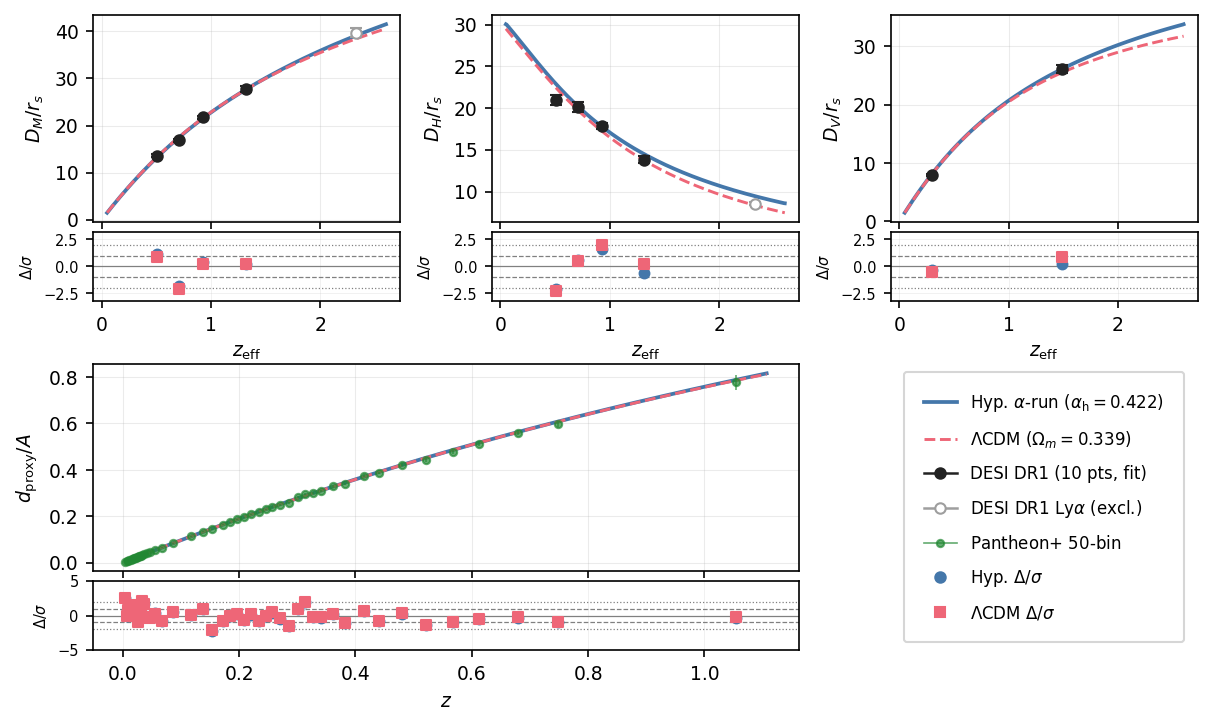
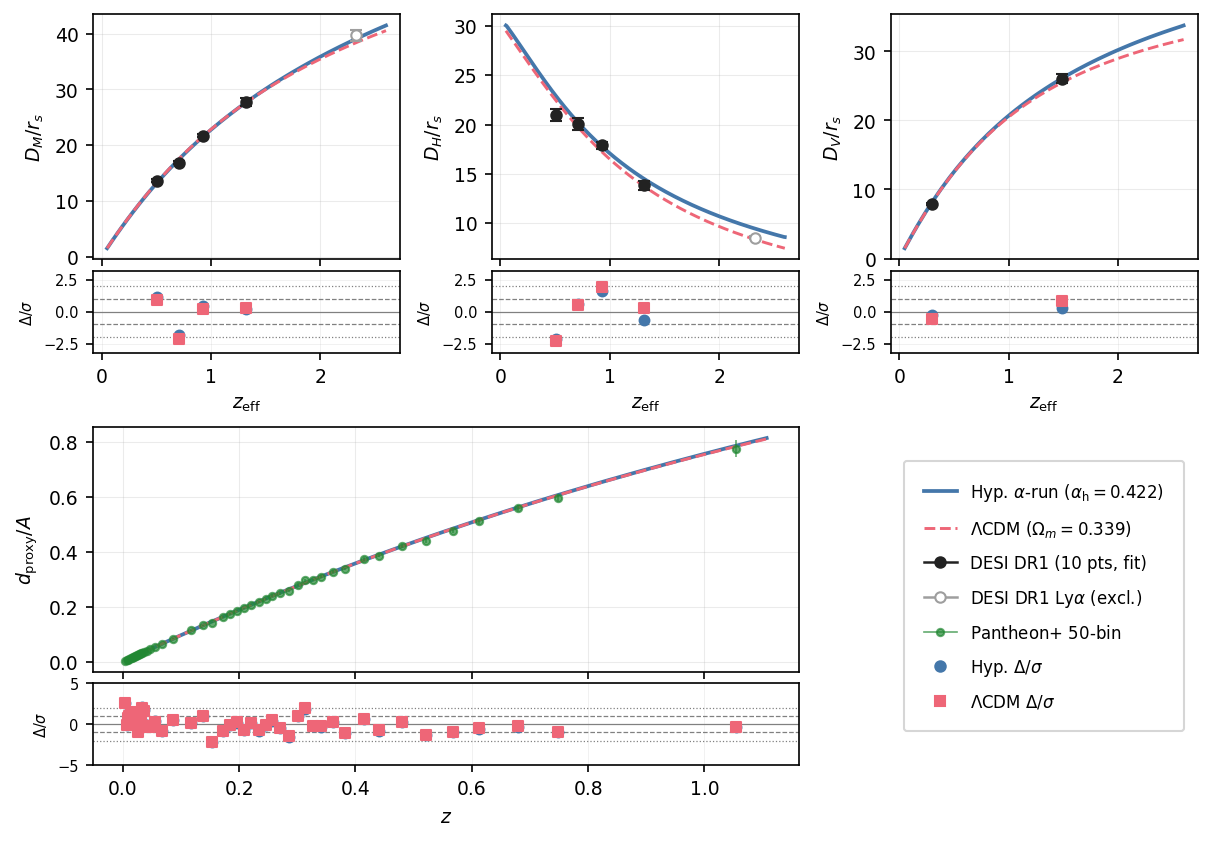
Drop n=1 BBN row (redundant with n=2); Fig 1 height 5.5->6.5
The n=2 row (ah+eta free) subsumes n=1 and is a stricter test:
Y_p=0.153 regardless of eta, ΔAIC=+734 vs ΛCDM.

diff --git a/main.tex b/main.tex
@@ -141,9 +141,8 @@ Statistical analyses keep $\alpha$ as the single geometric parameter. The fit qu
  \cmidrule(lr){2-14}
  & $\Lambda$CDM (ref) & 1 & $\Omega_m=0.339(16)$ & 1.000 & 0.247 & 2.527(30) & 1.79 & 0.79 & --- & 0 & 0 & --- & 0 \\
 \hline
-\multirow{4}{0.65cm}{\centering\rotatebox[origin=c]{90}{\scriptsize BAO+SN+BBN }}
- & \multirow{3}{1.9cm}{Hyp.\ $\alpha$-run} & 1 & $\alpha_{\rm high}=0.4224(11)$ & $1.000(40)$ & $0.153(6)$ & $2.69(6)$ & 1.42 & 0.82 & 383 & $-3.4$ & $+1.5$ & $+766$ & $+762$ \\
- & & 2 & $\alpha_{\rm high}=0.4224(11)$, $\eta=6.35(5){\times}10^{-10}$ & $1.000(40)$ & $0.153(6)$ & $2.529(30)$ & 1.42 & 0.82 & 736 & $-3.4$ & $+1.5$ & $+735$ & $+734$ \\
+\multirow{3}{0.65cm}{\centering\rotatebox[origin=c]{90}{\scriptsize BAO+SN+BBN }}
+ & \multirow{2}{1.9cm}{Hyp.\ $\alpha$-run} & 2 & $\alpha_{\rm high}=0.4224(11)$, $\eta=6.35(5){\times}10^{-10}$ & $1.000(40)$ & $0.153(6)$ & $2.529(30)$ & 1.42 & 0.82 & 736 & $-3.4$ & $+1.5$ & $+735$ & $+734$ \\
  & & 3 & $\alpha_{\rm low}=0.255(16)$, $\alpha_{\rm high}=0.4364(5)$, $\eta=7.66(6){\times}10^{-10}$ & $1.66(3)$ & $0.2405(34)$ & $2.527(30)$ & 1.51 & 0.75 & 2.03 & $-2.6$ & $-2.0$ & $+1.75$ & $-0.8$ \\
  \cmidrule(lr){2-14}
  & $\Lambda$CDM (ref) & 2 & $\Omega_m\!=\!0.339(16)$, $\eta\!=\!6.111(45){\times}10^{-10}$ & 1.000 & 0.247 & 2.527(30) & 1.79 & 0.79 & 0.28 & 0 & 0 & 0 & 0 \\

diff --git a/scripts/chi2_table.py b/scripts/chi2_table.py
@@ -566,18 +566,9 @@ row_t1("BAO+SN", "ΛCDM (ref)", 1,
 print(sep)
 print("BAO+SN+BBN block:")
 
-# Hyp. a-run, 1-par BBN-constrained (ah free, gm=1; k=1 vs ΛCDM k=2; ΔAIC from Y_p+D/H residuals)
-zfb, Efb = E_hippopede(sat(N_SAT_FIX, ah_bbn_opt))
-row_t1("BAO+SN+BBN", MODEL, 1,
-        f"ah={_paren(ah_bbn_opt, sig_ah_bbn)}",
-        zfb, Efb, _paren(gm_ah_bbn, SIGMA_H_BBN),
-        yp=_paren(float(abund_1par_bbn['Y_p']), sig_yp_bbn),
-        dh=_paren(float(abund_1par_bbn['D_H']*1e5), sig_dh_bbn),
-        k_model=1, k_lcdm=2,
-        c2_bbn=_c2_bbn_1par, c2_bbn_ref=_c2_yp_lcdm_bbn,
-        dof_bbn=2)
-
 # Hyp. a-run, 1-par+η (ah fixed at BBN-optimal, η free to fit D/H; n=2 vs ΛCDM n=2; shows Y_p still 0.153)
+# (n=1 row dropped: identical BAO/SN chi2 to n=2, and n=2 is a stricter test of the model)
+zfb, Efb = E_hippopede(sat(N_SAT_FIX, ah_bbn_opt))
 row_t1("BAO+SN+BBN", MODEL, 2,
         f"ah={_paren(ah_bbn_opt, sig_ah_bbn)}, eta={_paren(eta_1par_bbn_fit*1e10, sig_eta_1par_bbn*1e10)}e-10",
         zfb, Efb, _paren(gm_ah_bbn, SIGMA_H_BBN),

diff --git a/scripts/bao_fit_data.py b/scripts/bao_fit_data.py
@@ -196,7 +196,7 @@ nu_bao, nu_sn = len(d_bao) - 1, len(z_sn) - 1
 
 # ── layout: (3+1) × (main + residual) ────────────────────────────────────────
 plt.rcParams.update({"font.size": 9})
-fig = plt.figure(figsize=(9.5, 5.5))
+fig = plt.figure(figsize=(9.5, 6.5))
 outer  = gridspec.GridSpec(2, 1, figure=fig, hspace=0.22)
 gs_bao = gridspec.GridSpecFromSubplotSpec(2, 3, subplot_spec=outer[0],
                                            height_ratios=[3, 1], hspace=0.07, wspace=0.30)
